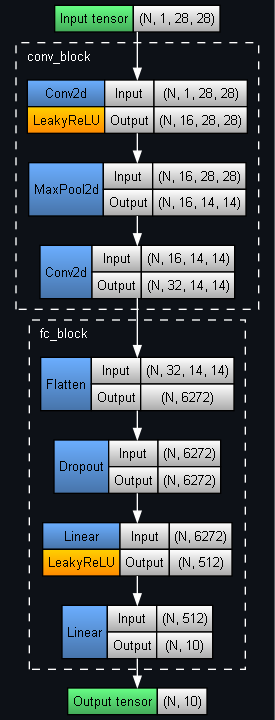
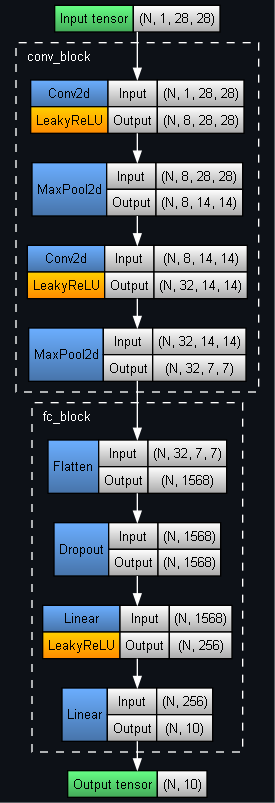
0.993

diff --git a/python/_artificial_intelligence_machine_learning/pytorch_cnn_mnist_classification/conv_net.py b/python/_artificial_intelligence_machine_learning/pytorch_cnn_mnist_classification/conv_net.py
@@ -13,19 +13,19 @@ class CNN(nn.Module):
 		super().__init__()
 		# Input shape (N, 1, 28, 28) (batch size, no. colour channels, height, width)
 		self.conv_block = nn.Sequential(
-			nn.Conv2d(1, 16, kernel_size=3, padding=1),   # -> (N, 8, 28, 28)
+			nn.Conv2d(1, 8, kernel_size=3, padding=1),   # -> (N, 8, 28, 28)
 			nn.LeakyReLU(),
 			nn.MaxPool2d(2),                             # -> (N, 8, 14, 14)
-			nn.Conv2d(16, 32, kernel_size=3, padding=1),  # -> (N, 16, 14, 14)
-			# nn.MaxPool2d(2)#,                             # -> (N, 16, 7, 7)
-			# nn.Conv2d(16, 32, kernel_size=3, padding=1)  # -> (N, 32, 7, 7)
+			nn.Conv2d(8, 32, kernel_size=3, padding=1),  # -> (N, 32, 14, 14)
+			nn.LeakyReLU(),
+			nn.MaxPool2d(2)                              # -> (N, 32, 7, 7)
 		)
 		self.fc_block = nn.Sequential(
-			nn.Flatten(),                                # -> (N, 6272)
+			nn.Flatten(),                                # -> (N, 1568)
 			nn.Dropout(),  # 0.5
-			nn.Linear(6272, 512),
+			nn.Linear(1568, 256),
 			nn.LeakyReLU(),
-			nn.Linear(512, 10)  # 10 classes (0-9)
+			nn.Linear(256, 10)  # 10 classes (0-9)
 		)
 
 	def forward(self, x):

diff --git a/python/_artificial_intelligence_machine_learning/pytorch_cnn_mnist_classification/main.py b/python/_artificial_intelligence_machine_learning/pytorch_cnn_mnist_classification/main.py
@@ -26,7 +26,7 @@ torch.manual_seed(1)
 torch.cuda.manual_seed_all(1)
 
 INPUT_SHAPE = (1, 28, 28)  # Colour channels, H, W
-BATCH_SIZE = 128
+BATCH_SIZE = 256
 NUM_EPOCHS = 100
 DRAWING_CELL_SIZE = 15
 DRAWING_SIZE = DRAWING_CELL_SIZE * 28
@@ -84,7 +84,7 @@ if __name__ == '__main__':
 		print('----- TRAINING -----\n')
 
 		optimiser = torch.optim.Adam(model.parameters())  # LR = 1e-3
-		early_stopping = EarlyStopping(model=model, patience=20, mode='max', track_best_weights=True)
+		early_stopping = EarlyStopping(model=model, patience=10, mode='max', track_best_weights=True)
 
 		for epoch in range(1, NUM_EPOCHS + 1):
 			progress_bar = tqdm(range(len(train_loader)), unit='batches', ascii=True)
